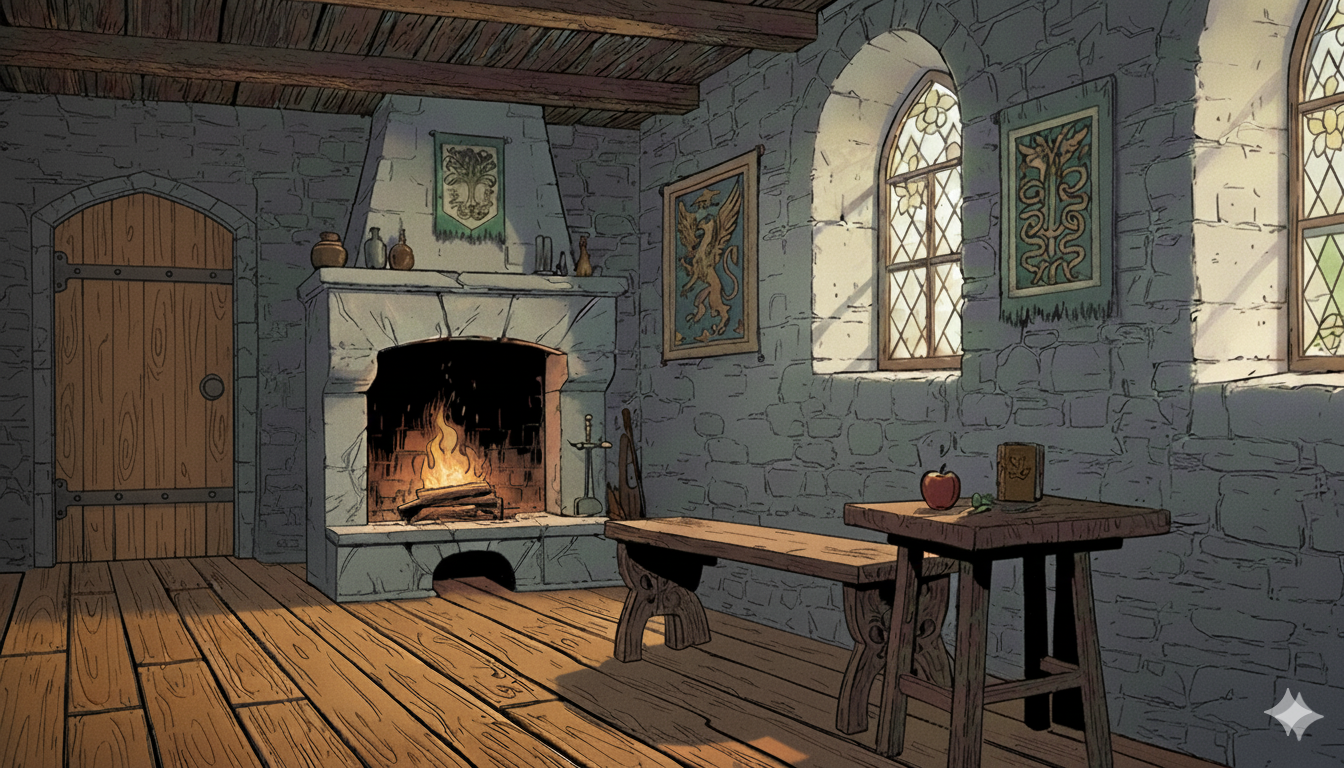
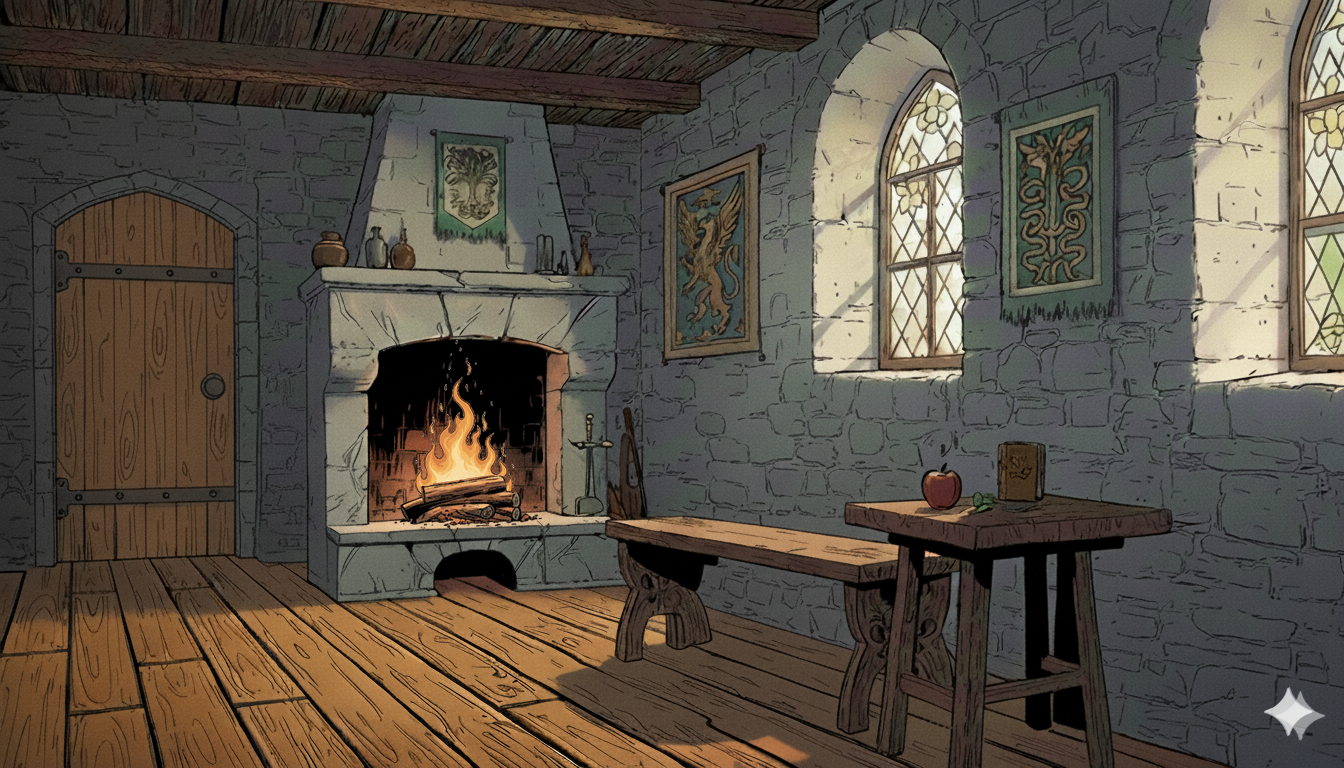
feat: aspect ratio (contain) & positions & animation background (fire) & rouet pos

diff --git a/src/routes/page1.svelte b/src/routes/page1.svelte
@@ -1,8 +1,26 @@
 <script>
+  import { onMount } from 'svelte';
   import backgroundImage from '../back/bg_1.png';
-  import womanImage from '../perso/femme.png';
-  import rouetImage from '../assets/rouet.png';
+    import backgroundImage2 from '../back/bg_1_f2.png';
+    import backgroundImage3 from '../back/bg_1_f3.png';
 
+
+  import womanImage from '../perso/femme.png';
+  import rouetImage from '../assets/page1/rouet.png';
+
+  let currentBg = backgroundImage;
+
+  onMount(() => {
+    const images = [backgroundImage, backgroundImage3, backgroundImage2, backgroundImage3];
+    let index = 0;
+
+    const interval = setInterval(() => {
+      index = (index + 1) % images.length; 
+      currentBg = images[index];
+    }, 700);
+
+    return () => clearInterval(interval);
+  });
 </script>
 
 <style>
@@ -13,7 +31,6 @@
     position: relative;
     overflow: hidden;
     object-fit: cover;
-
   }
 
   .fullscreen-background {
@@ -24,27 +41,28 @@
   }
 
   .women {
-    width: 100%;
-    height: 100%;
+    position: absolute;
+    width: 22%;
+    height: 65%;
     background-repeat: no-repeat;
     background-size: contain;
     background-position: center;
     transform-origin: center center;
-    transform: scale(0.6);
+    transform: scale(0.8);
     z-index: 1;
-    position: absolute;
-    top: 17%;
-    left: 5%;
+    top: 35%;
+    left: 45%;
     transition: transform 0.3s ease;
+    border: 1px solid white;
+
   }
 
   .women:hover {
     transform: scale(0.66);
   }
 
-
   .rouet {
-  width: 100%;
+  width: 45%;
   height: 100%;
   background-repeat: no-repeat;
   background-size: contain;
@@ -54,9 +72,10 @@
   z-index: 1;
   position: absolute;
   top: 20%;
-  left: -20%;
+  left: 7%;
   transition: transform 0.3s ease;
   scale: 0.7;
+  border: 1px solid white;
 }
 
 .rouet:hover {
@@ -69,13 +88,15 @@
 <main>
   <div class="container">
     <!-- Background -->
-    <img src={backgroundImage} alt="Background" class="fullscreen-background" />
+    <img src={currentBg} alt="Background" class="fullscreen-background" />
 
     <!-- Personnage féminin -->
     <div class="women" style="background-image: url({womanImage})"></div>
-    <!-- Rouet -->
 
+    <!-- Rouet -->
     <div class="rouet" style="background-image: url({rouetImage})"></div>
+
+
 
   </div>
 </main>
